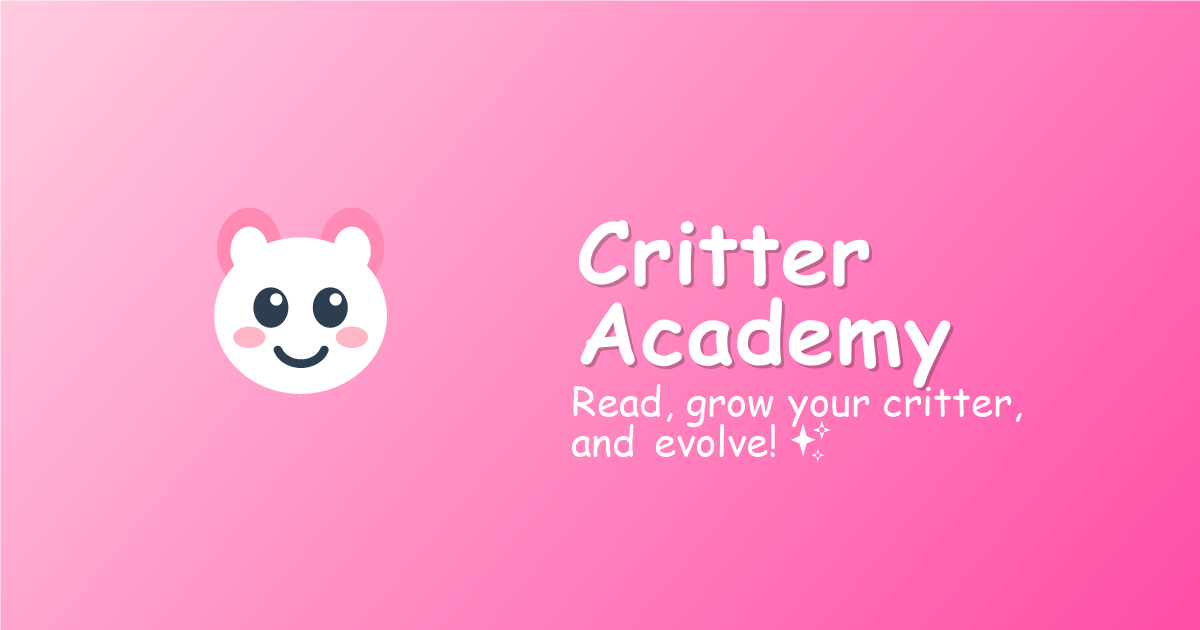
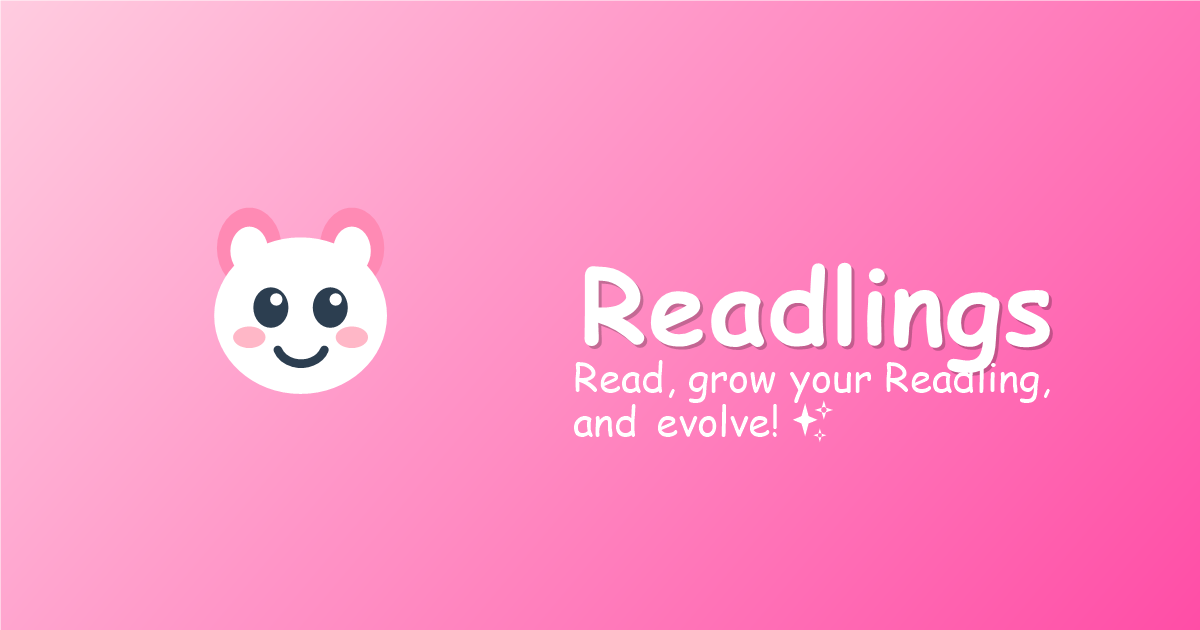
Rebrand to Readlings
Rename app throughout (title, manifest, PWA metadata, social tags, headings); creatures are now Readlings; collection screen is My Readlings; regenerate social share image; service worker cache renamed readlings-v1.

Changed region(s): [[0.4625, 0.3317, 0.8942, 0.7238]]

diff --git a/index.html b/index.html
@@ -3,8 +3,8 @@
 <head>
 <meta charset="UTF-8">
 <meta name="viewport" content="width=device-width, initial-scale=1.0, viewport-fit=cover">
-<title>Critter Academy — Sight Word Reading Game</title>
-<meta name="description" content="A gentle sight-word reading game for early readers. Read words, grow your critter, and watch it evolve!">
+<title>Readlings — Sight Word Reading Game</title>
+<meta name="description" content="A gentle sight-word reading game for early readers. Read words, grow your Readling, and watch it evolve!">
 
 <!-- PWA / install -->
 <link rel="manifest" href="manifest.json">
@@ -14,12 +14,12 @@
 <meta name="apple-mobile-web-app-capable" content="yes">
 <meta name="mobile-web-app-capable" content="yes">
 <meta name="apple-mobile-web-app-status-bar-style" content="default">
-<meta name="apple-mobile-web-app-title" content="Critter Academy">
+<meta name="apple-mobile-web-app-title" content="Readlings">
 
 <!-- Social share preview -->
 <meta property="og:type" content="website">
-<meta property="og:title" content="Critter Academy">
-<meta property="og:description" content="A gentle sight-word reading game. Read words, grow your critter, and watch it evolve!">
+<meta property="og:title" content="Readlings">
+<meta property="og:description" content="A gentle sight-word reading game. Read words, grow your Readling, and watch it evolve!">
 <meta property="og:image" content="og-image.png">
 <meta name="twitter:card" content="summary_large_image">
 
@@ -294,8 +294,8 @@ h1 { font-size: clamp(2em,6vw,3em); color: white; text-shadow: 3px 3px 0 rgba(0,
 
 <!-- ════════ TITLE ════════ -->
 <div id="title-screen">
-  <h1>✨ Critter Academy ✨</h1>
-  <p class="subtitle">Read words, grow your Critter, and evolve!</p>
+  <h1>✨ Readlings ✨</h1>
+  <p class="subtitle">Read words, grow your Readling, and evolve!</p>
   <div id="title-preview" style="display:flex;justify-content:center;margin:18px 0 22px;"></div>
   <div class="level-row">
     <button class="level-pill" data-level="tiny"  onclick="setLevel('tiny')">Tiny words</button>
@@ -304,12 +304,12 @@ h1 { font-size: clamp(2em,6vw,3em); color: white; text-shadow: 3px 3px 0 rgba(0,
   </div>
   <button class="btn btn-start" onclick="startGame()">🌟 Let's Play! 🌟</button>
   <div class="title-stats" id="titleStats"></div>
-  <button class="btn btn-dex" onclick="openDex()">📖 My Critters</button>
+  <button class="btn btn-dex" onclick="openDex()">📖 My Readlings</button>
 </div>
 
 <!-- ════════ CRITTER COLLECTION ════════ -->
 <div id="dex-screen" class="hidden">
-  <h1>📖 My Critters</h1>
+  <h1>📖 My Readlings</h1>
   <p class="subtitle" id="dexCount"></p>
   <div class="dex-grid" id="dexGrid"></div>
   <button class="btn btn-again" onclick="closeDex()">⬅️ Back</button>
@@ -317,7 +317,7 @@ h1 { font-size: clamp(2em,6vw,3em); color: white; text-shadow: 3px 3px 0 rgba(0,
 
 <!-- ════════ GAME ════════ -->
 <div id="game-screen" class="hidden">
-  <div class="badge" id="badge">⭐ Critter</div>
+  <div class="badge" id="badge">⭐ Readling</div>
 
   <div class="prog-wrap"><div class="prog-fill" id="prog" style="width:0%"></div></div>
 
@@ -858,7 +858,7 @@ function openDex() {
     g.appendChild(d);
   });
   document.getElementById('dexCount').textContent =
-    n === CREATURES.length ? 'You found them ALL! 🏆' : `${n} of ${CREATURES.length} critters evolved`;
+    n === CREATURES.length ? 'You found them ALL! 🏆' : `${n} of ${CREATURES.length} readlings evolved`;
 }
 function closeDex() {
   document.getElementById('dex-screen').classList.add('hidden');

diff --git a/sw.js b/sw.js
@@ -1,6 +1,6 @@
-// Critter Academy service worker — offline support via stale-while-revalidate.
+// Readlings service worker — offline support via stale-while-revalidate.
 // Bump CACHE when you ship changes so clients refresh.
-const CACHE = 'critter-academy-v1';
+const CACHE = 'readlings-v1';
 const ASSETS = [
   './',
   './index.html',

diff --git a/README.md b/README.md
@@ -1,4 +1,4 @@
-# 🐾 Critter Academy
+# 🐾 Readlings
 
 A gentle, gamified **sight-word reading game** for early readers (ages ~4–6).
 A word pops up, the child reads it aloud, and a grown-up taps **Got it!** or **Try again** —
@@ -23,7 +23,7 @@ Double-click the file, or drag it into a browser tab. That's it.
 - **3 difficulty levels:** Tiny words (2-letter), Short words (3-letter), Mix it up.
 - **🔊 Tap-to-hear** — reads the current word aloud using the device voice.
 - **Progress that sticks** — stars earned and critters evolved are saved on-device.
-- **My Critters** collection screen — locked silhouettes until you earn each one.
+- **My Readlings** collection screen — locked silhouettes until you earn each one.
 - **Happy sound effects** and per-action animations (eat, pet, train, nap, love).
 - **Installable PWA** — add to home screen, works offline.
 
@@ -31,11 +31,11 @@ Double-click the file, or drag it into a browser tab. That's it.
 
 The site is plain static files, so any static host works. For GitHub Pages:
 
-1. Create a new repository on github.com (e.g. `critter-academy`).
+1. Create a new repository on github.com (e.g. `readlings`).
 2. Push this folder to it (see the deploy notes your co-founder set up).
 3. In the repo: **Settings → Pages → Build and deployment → Source: Deploy from a branch**,
    pick `main` / `/ (root)`, save.
-4. Your app goes live at `https://<your-username>.github.io/critter-academy/`.
+4. Your app goes live at `https://<your-username>.github.io/readlings/`.
 
 Alternative one-step host: drag this folder onto **app.netlify.com/drop** for an instant URL.
 